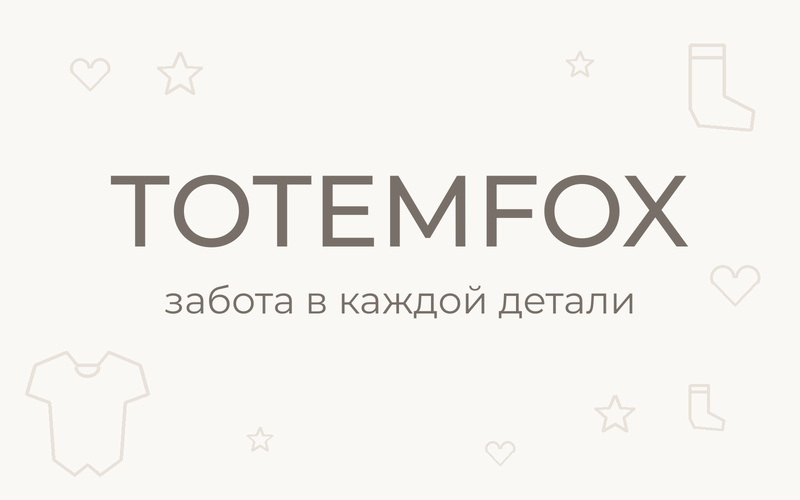
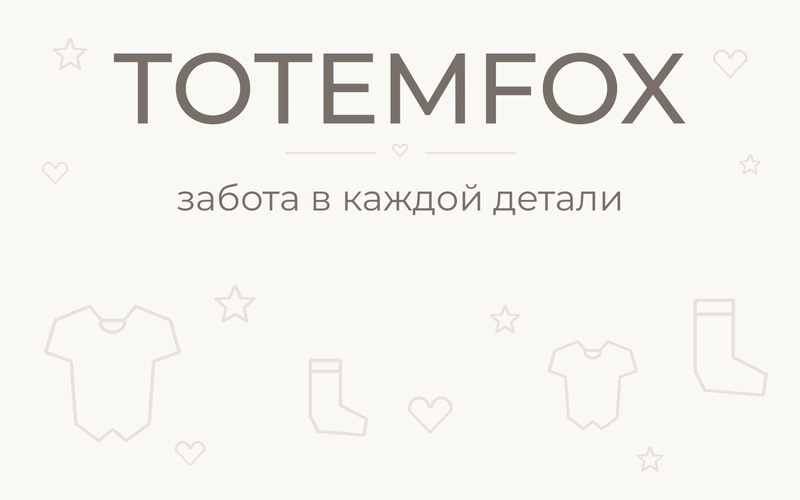
Обложка рич: надпись и слоган в верхней части для свёрнутого просмотра на ПК
Claude-Session: https://claude.ai/code/session_01Vzf4YFG89AunC4GPYDFqtj

diff --git a/tools/rich/make_brand_cover.py b/tools/rich/make_brand_cover.py
@@ -27,17 +27,28 @@ def heart(d, cx, cy, s, w=7):
     d.line([(cx - s*.93, cy + .05*s), (cx, cy + s), (cx + s*.93, cy + .05*s)], fill=LN, width=w, joint="curve")
 def render(tag, name):
     c = Image.new("RGB", (W, H), BG); d = ImageDraw.Draw(c)
-    onesie(d, 70, 730, 210, 7); sock(d, 1380, 90, 170, 7); star(d, 360, 150, 46, 6); star(d, 1230, 830, 40, 6)
-    heart(d, 1470, 560, 50, 6); heart(d, 180, 140, 40, 6); star(d, 1160, 130, 28, 5); sock(d, 1380, 770, 90, 6)
-    star(d, 520, 880, 26, 5); heart(d, 1000, 900, 30, 5)
-    s = 230
+    if LAYOUT == "center":   # первый вариант: надпись по центру
+        onesie(d, 70, 730, 210, 7); sock(d, 1380, 90, 170, 7); star(d, 360, 150, 46, 6); star(d, 1230, 830, 40, 6)
+        heart(d, 1470, 560, 50, 6); heart(d, 180, 140, 40, 6); star(d, 1160, 130, 28, 5); sock(d, 1380, 770, 90, 6)
+        star(d, 520, 880, 26, 5); heart(d, 1000, 900, 30, 5)
+        ty, sy = 420, 600
+    else:                    # "top": текст в верхних ~40% — читается в свёрнутом рич на компьютере
+        star(d, 140, 110, 34, 5); heart(d, 1460, 120, 34, 5); star(d, 1500, 330, 22, 4); heart(d, 110, 340, 26, 4)
+        onesie(d, 110, 640, 230, 7); star(d, 470, 610, 40, 6); sock(d, 620, 720, 150, 7); heart(d, 860, 820, 44, 6)
+        star(d, 1010, 640, 30, 5); onesie(d, 1110, 700, 150, 6); sock(d, 1390, 600, 190, 7); star(d, 1300, 920, 26, 5)
+        heart(d, 380, 900, 30, 5)
+        ty, sy = 175, 395
+        d.line([(W / 2 - 230, 305), (W / 2 - 50, 305)], fill=LN, width=4); d.line([(W / 2 + 50, 305), (W / 2 + 230, 305)], fill=LN, width=4)
+        heart(d, W / 2, 297, 16, 4)
+    s = 230 if LAYOUT == "center" else 200
     while d.textlength("TOTEMFOX", font=f(500, s)) > 1180: s -= 4
-    d.text((W / 2, 420), "TOTEMFOX", font=f(500, s), fill=TXT, anchor="mm")
-    s2 = 76
+    d.text((W / 2, ty), "TOTEMFOX", font=f(500, s), fill=TXT, anchor="mm")
+    s2 = 76 if LAYOUT == "center" else 72
     while d.textlength(tag, font=f(400, s2)) > 1100: s2 -= 2
-    d.text((W / 2, 600), tag, font=f(400, s2), fill=TXT, anchor="mm")
+    d.text((W / 2, sy), tag, font=f(400, s2), fill=TXT, anchor="mm")
     c.resize((800, 500), Image.LANCZOS).save(os.path.join(OUT, name), quality=95, subsampling=0)
     print("saved", name)
+LAYOUT = os.environ.get("LAYOUT", "top")
 TAG = os.environ.get("TAG", "забота в каждой детали")
 for nm, (bg, tx, ln) in PAL.items():
     BG, TXT, LN = tuple(bg), tuple(tx), tuple(ln)

diff --git a/CLAUDE.md b/CLAUDE.md
@@ -8,7 +8,10 @@
 - Файл: `seo/images/brand_cover/обложка_бренда_TOTEMFOX_800x500.jpg` (800×500 JPG).
 - Молочный фон `#FAF8F4`, надпись «TOTEMFOX» и слоган **«забота в каждой детали»** цветом `#787068`,
   едва заметные контурные рисунки (боди, носочки, звёзды, сердечки) цветом `#E8E2DA`.
+- Надпись и слоган — в **верхних ~40%** (над ними тонкая линия с сердечком), рисунки — внизу: на компьютере
+  свёрнутый рич показывает только верх обложки (исправлено 22.10.2026, старая центрированная — `…_центр_800x500_старая.jpg`).
 - Пересобрать: `PAL='{"бренда_TOTEMFOX_800x500":[[250,248,244],[120,112,104],[232,226,218]]}' TAG="забота в каждой детали" python3 tools/rich/make_brand_cover.py tools/rich/fonts/Montserrat-VF.ttf <out_dir>`
+  (по умолчанию `LAYOUT=top`; `LAYOUT=center` — старая раскладка).
 
 ### 2. Стиль слайдов (эталон — `seo/images/rich_nightgowns_v3_800x500/`)
 - Формат **800×500 JPG** (рисуем 1600×1000 и уменьшаем). Без слайда «Как выбрать размер», если не попросили.
@@ -22,7 +25,7 @@
   6 Ваши вопросы (чат «?»/«!» на фоне `#F3EFE9`) → 7 Уход.
 - Генератор-образец: `tools/rich/rich_template_v3_nightgowns.py` (аргументы: папка фото, папка вывода, Montserrat, любой 4-й шрифт).
 - Уже переведены в стандарт v3: сорочки (`rich_nightgowns_v3_800x500`), комбинезоны (`rich_jumpsuits_v3_800x500/<модель>`),
-  водолазка 231Л3F (`rich_231L3F_v3_800x500`). Генераторы: `tools/rich/make_rich_wide_v3.py` (комбинезоны, нужен `make_rich.py` рядом),
+  водолазка 231Л3F (`rich_231L3F_v3_800x500`), водолазки (`rich_turtlenecks_v3_800x500`, генератор `tools/rich/rich_v3_turtlenecks.py`). Генераторы: `tools/rich/make_rich_wide_v3.py` (комбинезоны, нужен `make_rich.py` рядом),
   `tools/rich/make_rich_231L3F_v3.py`; общая тема-надстройка для старых генераторов — `tools/rich/theme_v3.py`.
 - К каждому набору — `артикулы.txt` (nmID + артикул продавца) и архив; рич через API WB не загружается — только вручную в кабинете.
 
